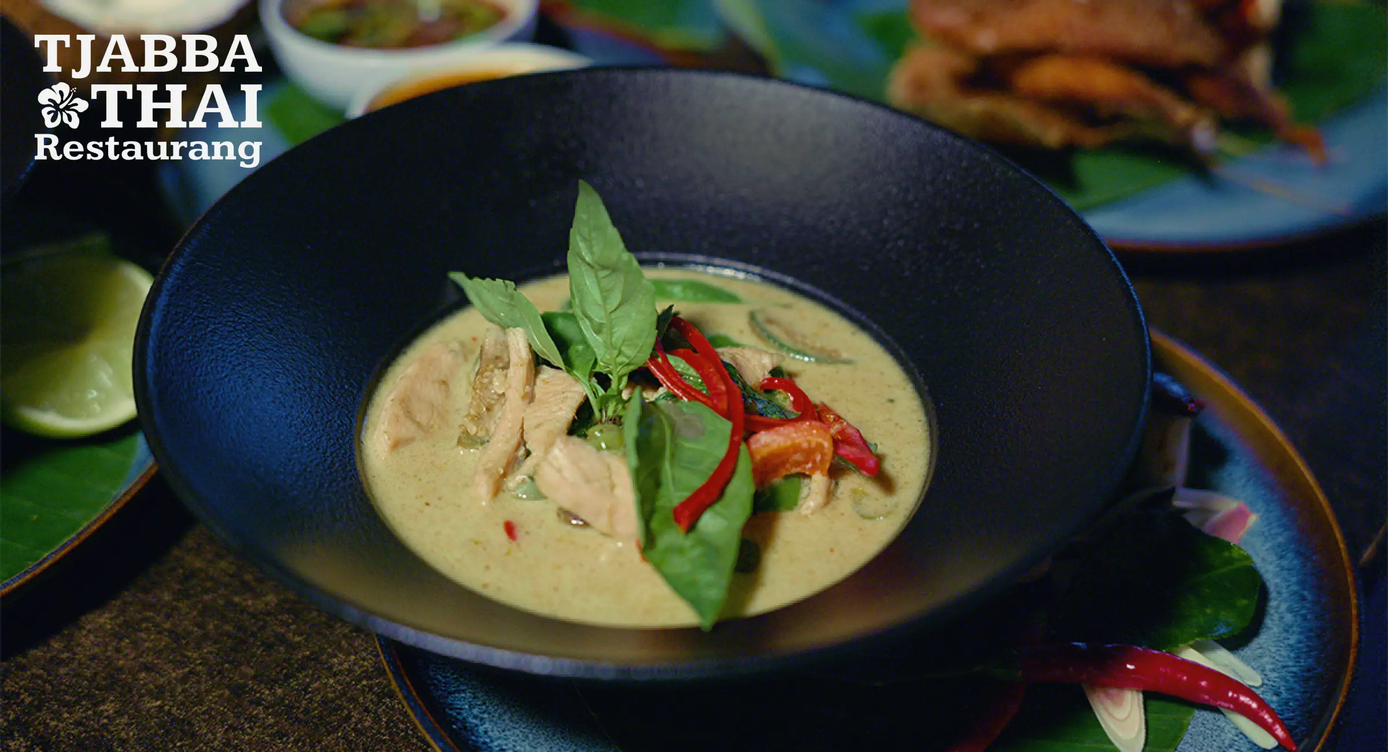
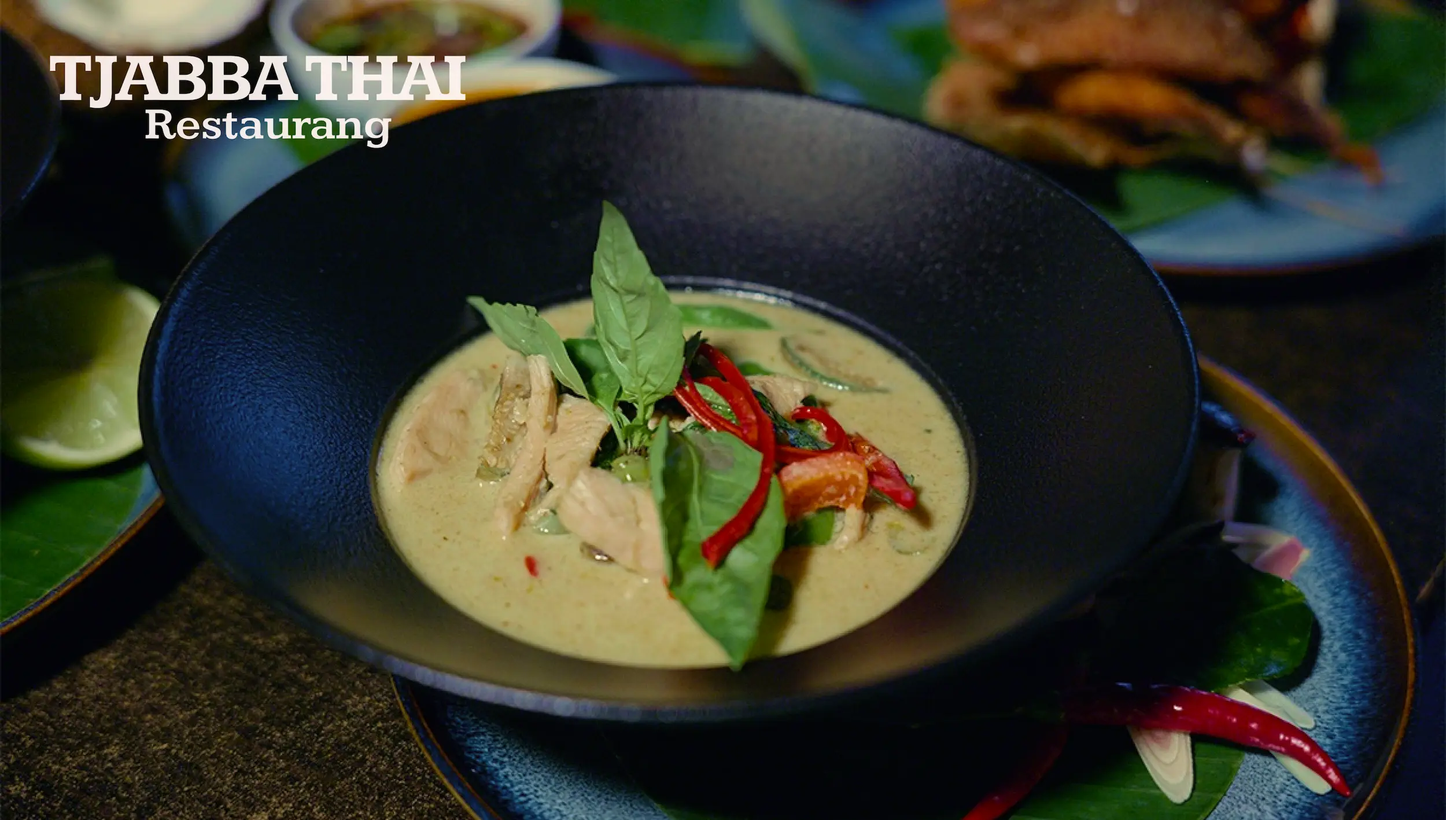
added E layout, webp images

diff --git a/src/components/WorksLayouts/WorksLayoutE.jsx b/src/components/WorksLayouts/WorksLayoutE.jsx
@@ -1,0 +1,68 @@
+import { motion } from "framer-motion";
+import styled from "styled-components";
+
+export default function WorksLayoutE({ project }) {
+  return (
+    <Main>
+      <Header>
+        <motion.img
+          src={project.thumbnailFirst}
+          initial={{ filter: "blur(80px)" }}
+          whileInView={{ filter: "none", delay: 0.1 }}
+          alt={project.title}
+        />
+        <motion.img
+          src={project.thumbnailSecond}
+          initial={{ filter: "blur(80px)" }}
+          whileInView={{ filter: "none", delay: 0.1 }}
+          alt={project.title}
+        />
+        <motion.img
+          src={project.image}
+          initial={{ filter: "blur(80px)" }}
+          whileInView={{ filter: "none", delay: 0.1 }}
+          alt={project.title}
+        />
+      </Header>
+      <Gallery>
+        {project.gallery.map((src, i) => (
+          <motion.img
+            key={i}
+            src={src}
+            initial={{ filter: "blur(80px)" }}
+            whileInView={{ filter: "none", delay: 0.1 }}
+            alt={project.title}
+          />
+        ))}
+      </Gallery>
+    </Main>
+  );
+}
+
+const Main = styled.div`
+  display: flex;
+  flex-direction: column;
+  gap: 2rem;
+`;
+
+const Header = styled.div`
+  display: flex;
+  justify-content: center;
+  gap: 1rem;
+  img {
+    width: 100%;
+  }
+`;
+
+const Gallery = styled.div`
+  display: grid;
+  grid-template-columns: repeat(4, 1fr);
+  gap: 1rem;
+  img {
+    width: 100%;
+  }
+
+  @media (max-width: 768px) {
+    grid-template-columns: repeat(2, 1fr);
+  }
+`;

diff --git a/src/components/Footer.jsx b/src/components/Footer.jsx
@@ -1,9 +1,23 @@
+import { useState } from "react";
+import { IoCheckmark, IoCopyOutline } from "react-icons/io5";
 import styled from "styled-components";
 
 export default function Footer() {
+  const [copied, setCopied] = useState(false);
+
+  const handleCopy = () => {
+    navigator.clipboard.writeText("feliciawillnas.portfolio@gmail.com");
+    setCopied(true);
+    setTimeout(() => setCopied(false), 2000);
+  };
+
   return (
     <Main>
       <ul>
+        <EmailItem onClick={handleCopy} $copied={copied}>
+          feliciawillnas.portfolio@gmail.com
+          {copied ? <IoCheckmark /> : <IoCopyOutline />}
+        </EmailItem>
         <li>
           <a
             href="https://github.com/feliciawillnas"
@@ -22,7 +36,6 @@ export default function Footer() {
             LinkedIn
           </a>
         </li>
-        <li>feliciawillnas.portfolio@gmail.com</li>
       </ul>
     </Main>
   );
@@ -33,8 +46,8 @@ const Main = styled.footer`
   justify-content: center;
   align-items: center;
   position: fixed;
-  bottom: 0;
-  right: 0;
+  bottom: 0.5rem;
+  right: 0.5rem;
   padding: 0.5rem;
 
   // Font styling
@@ -45,18 +58,23 @@ const Main = styled.footer`
   font-family: "Source Code Pro", monospace;
   font-weight: 400;
   letter-spacing: 0.04rem;
-
   ul {
     display: flex;
     flex-direction: row;
     gap: 2rem;
   }
-
-  li {
-    cursor: pointer;
-  }
-
   a {
     color: white;
+  }
+`;
+
+const EmailItem = styled.li`
+  display: flex;
+  align-items: center;
+  gap: 0.4rem;
+  cursor: copy;
+
+  &:hover {
+    cursor: pointer;
   }
 `;

diff --git a/src/pages/Works.jsx b/src/pages/Works.jsx
@@ -4,6 +4,7 @@ import WorksLayoutA from "../components/WorksLayouts/WorksLayoutA";
 import WorksLayoutB from "../components/WorksLayouts/WorksLayoutB";
 import WorksLayoutC from "../components/WorksLayouts/WorksLayoutC";
 import WorksLayoutD from "../components/WorksLayouts/WorksLayoutD";
+import WorksLayoutE from "../components/WorksLayouts/WorksLayoutE";
 import projectData from "../data/projectData.json";
 
 const layouts = {
@@ -11,6 +12,7 @@ const layouts = {
   B: WorksLayoutB,
   C: WorksLayoutC,
   D: WorksLayoutD,
+  E: WorksLayoutE,
 };
 
 export default function Works() {

diff --git a/src/components/WorksLayouts/WorksLayoutC.jsx b/src/components/WorksLayouts/WorksLayoutC.jsx
@@ -43,11 +43,10 @@ const ProjectImageWrapper = styled.div`
     width: 100%;
     height: auto;
     object-fit: cover;
-    border: 5rem dotted ${({ theme }) => theme.details};
-    padding: 0.5rem;
+    border: 5rem solid ${({ theme }) => theme.details};
 
     @media (max-width: 768px) {
-      border: 2rem dotted ${({ theme }) => theme.details};
+      border: 2rem solid ${({ theme }) => theme.details};
     }
   }
 
